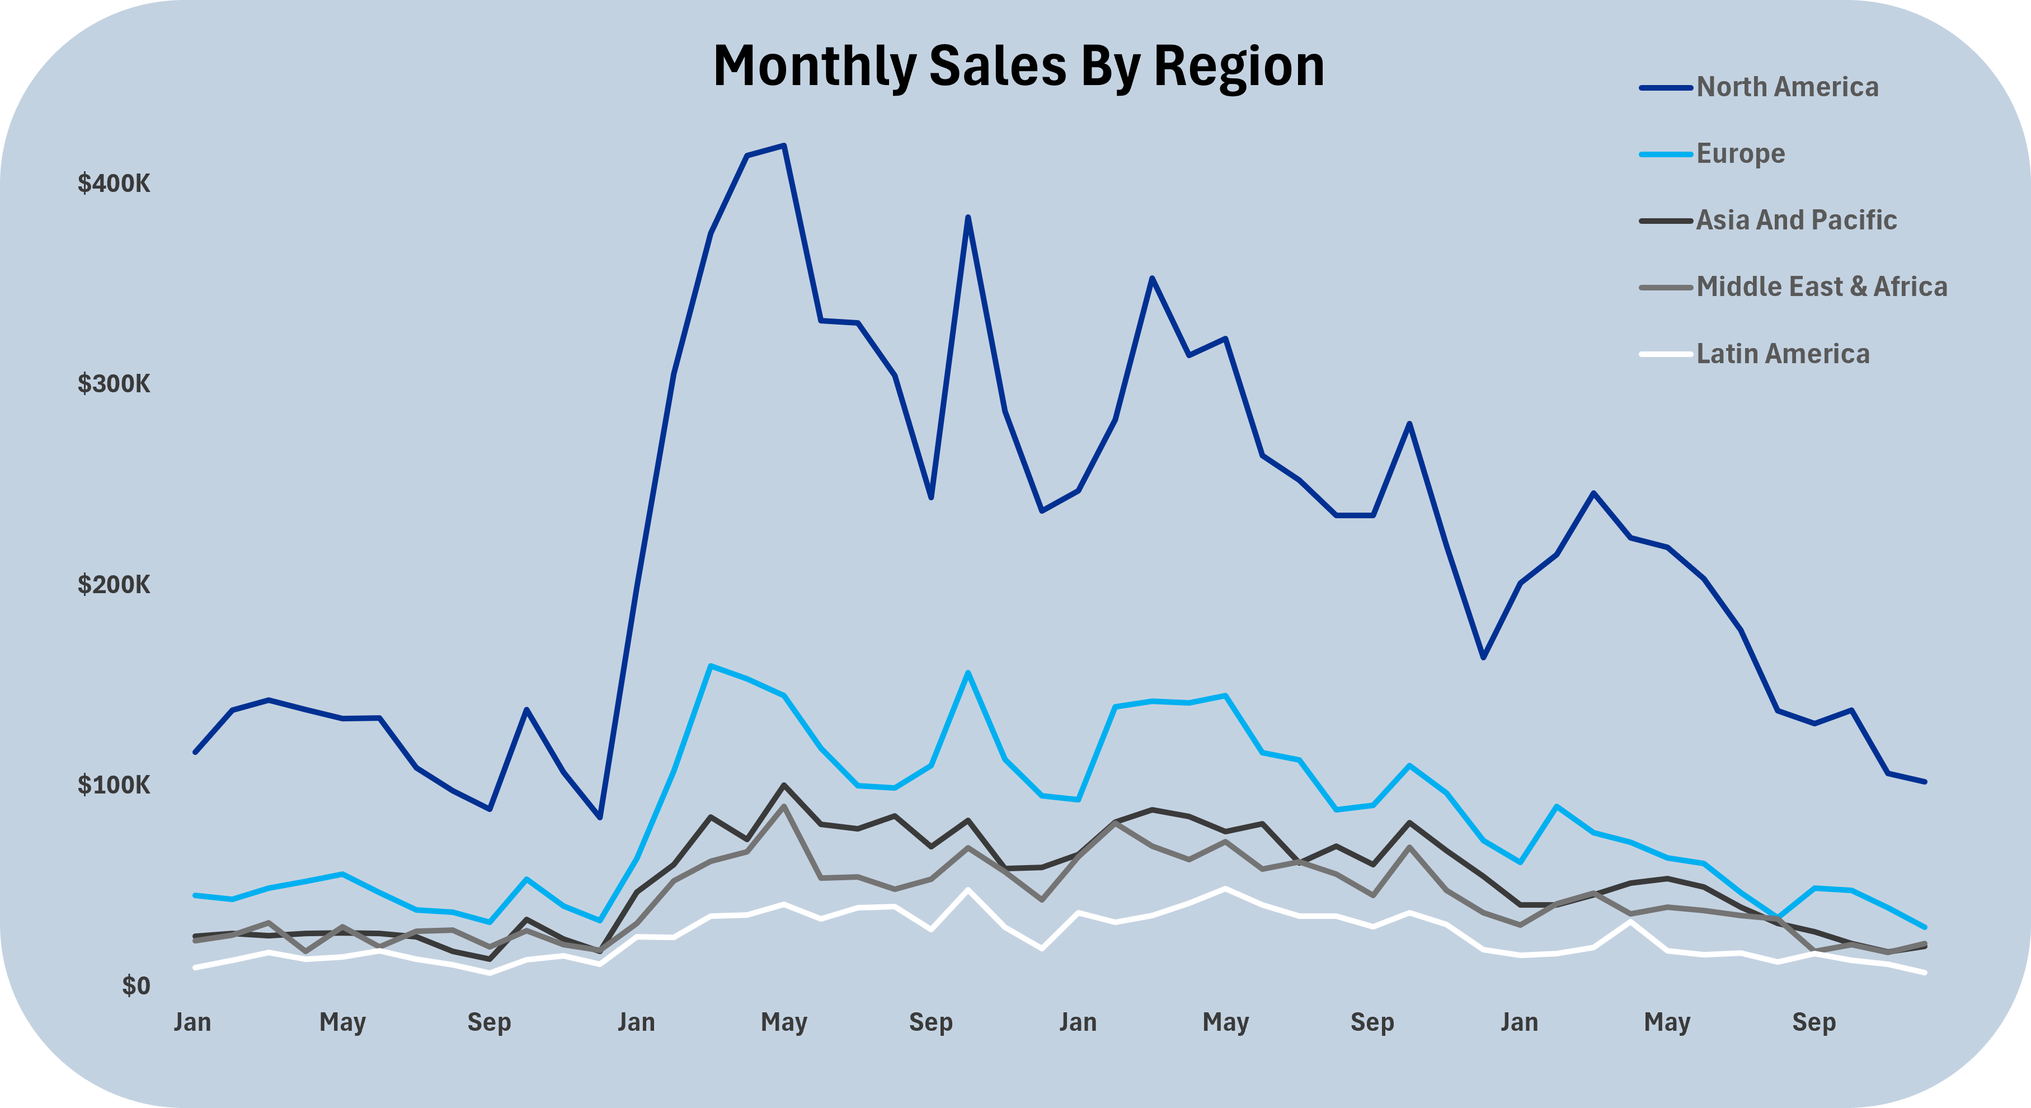
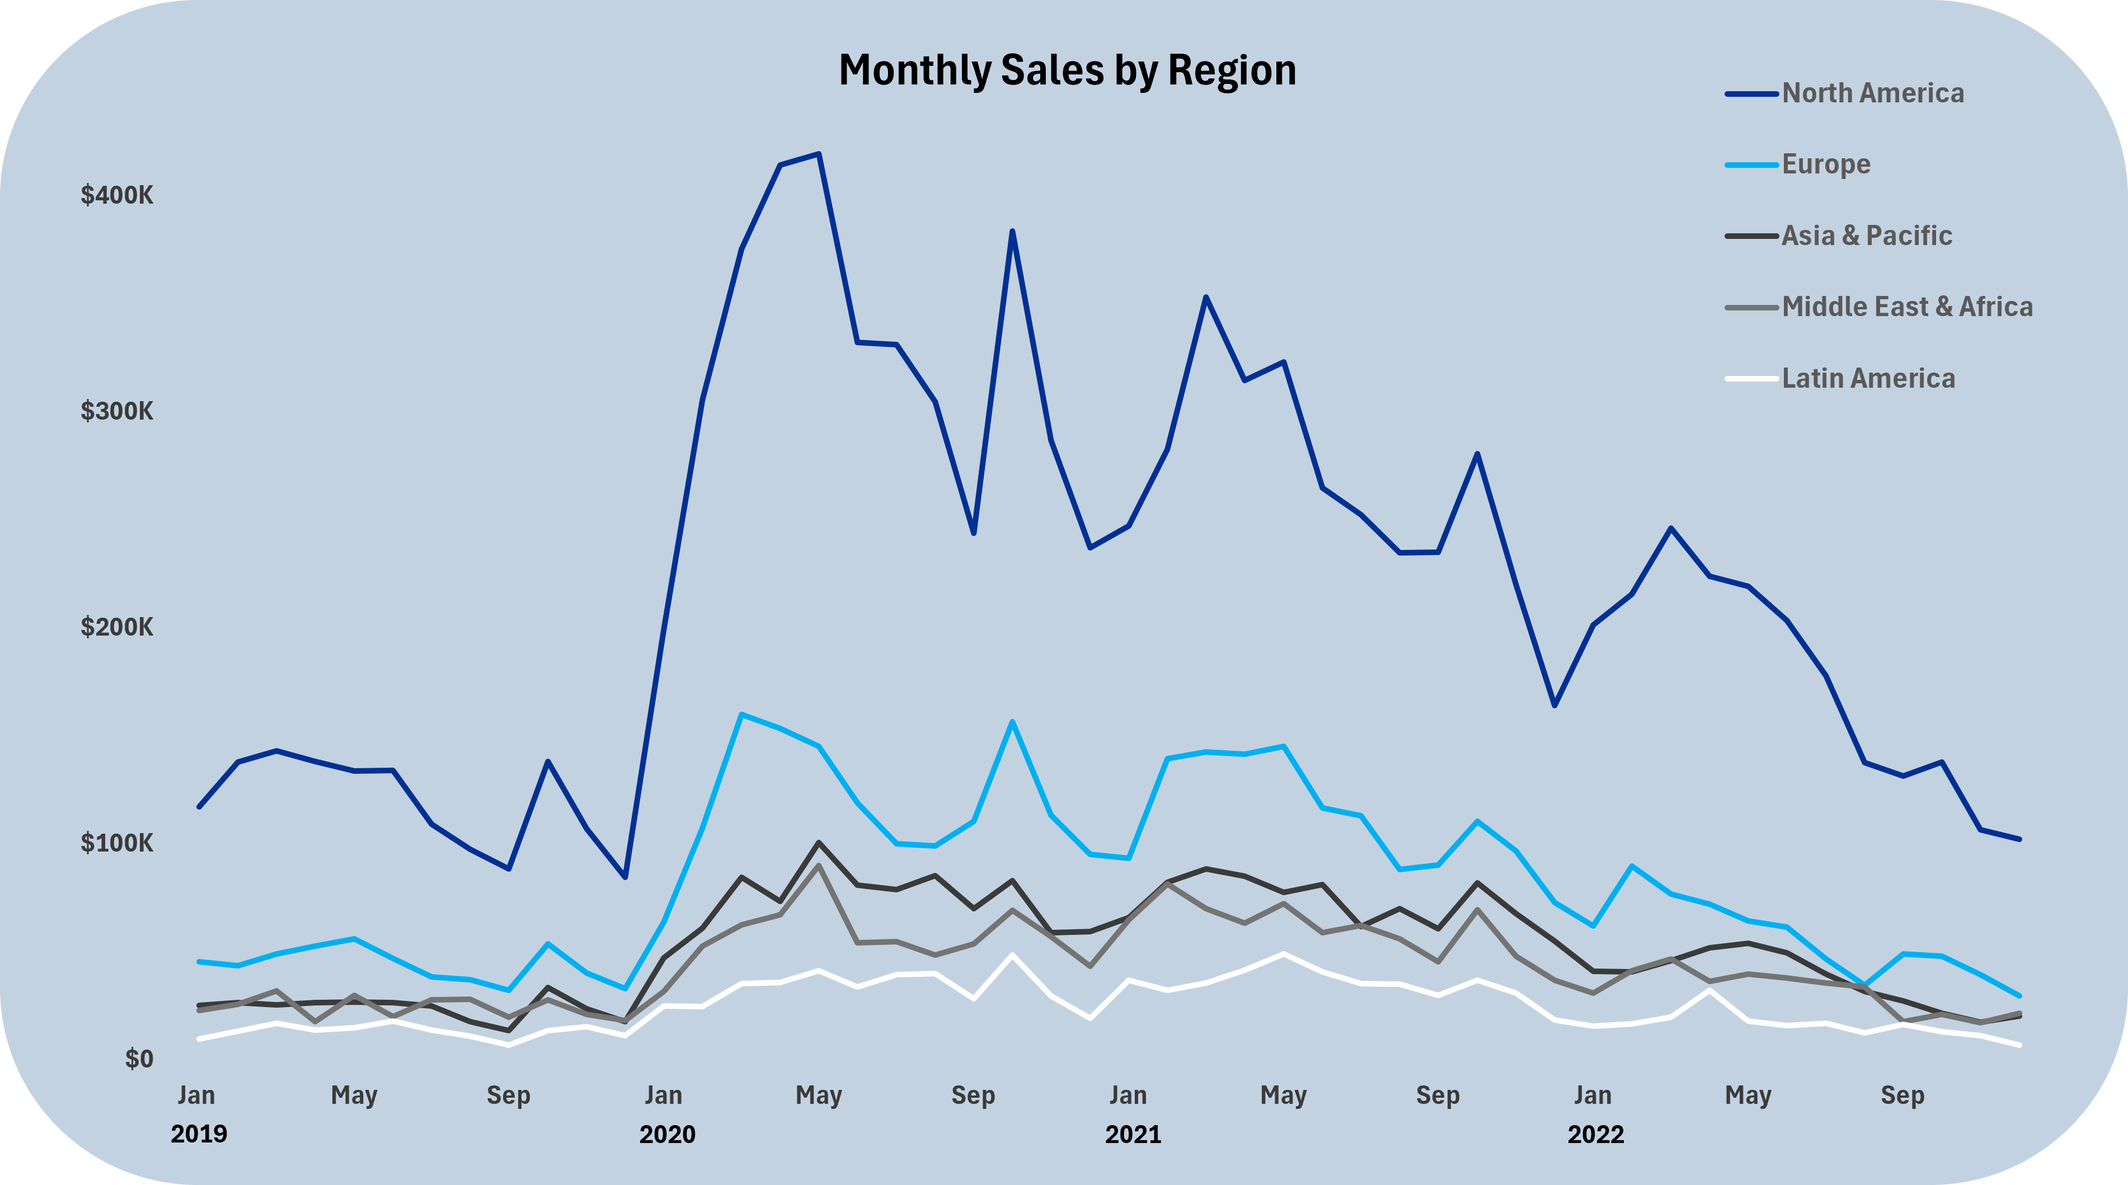
Improved README formatting

diff --git a/README.md b/README.md
@@ -22,7 +22,7 @@ Bookmarks:
 
 ## Background and Overview  
 
-Trenline is a global online retailer specializing in consumer electronics. Since commencing operations in 2019, the company has averaged over $5 million in annual net sales, partisipating in the \$650 billion E-commerce market.  
+Trenline is a global online retailer specializing in consumer electronics. Since commencing operations in 2019, the company has averaged over $5 million in annual net sales, participating in the \$650 billion E-commerce market.  
 
 Trenline’s primary marketing strategy involves **Direct Marketing**, promoting one of its eight consumer products. Additionally, the company offers a loyalty program aimed at fostering customer retention.  
 
@@ -40,50 +40,49 @@ Four tables (visualized above) were provided for this analysis:
 
 - **orders:** Contains unique order identifiers (**id**, primary key) and purchase details, including the customer identifier (**customer_id**), product purchased (**product_name**), purchase date (**purchase_ts**), and purchase value in USD (**currency_usd**).  
 
-- **customers:** Stores customer-related data linked to orders (**id**, foreign key for orders). It includes the marketing channel that drove the initial sale (**marketing_channel**), the customer's membership status (**loyalty_program**), and their country (**country_code**).  
+- **customers:** Stores customer-related data linked to orders (**id**, foreign key for orders). It includes the marketing channel that drove the initial sale (**marketing_channel**), the customers' membership status (**loyalty_program**), and their country (**country_code**).  
 
 - **order_status:** Tracks order returns, with **order_id** as the foreign key for orders. This table records key dates such as purchase (**purchase_ts**), shipping (**ship_ts**), delivery (**delivery_ts**), and refund (**refund_ts**). ***Note**: Only returned orders are included in this table.*  
 
 - **geo_lookup:** Categorizes countries (**country**, primary key) into regions: Asia-Pacific (**APAC**), Europe (**EURO**), Latin America (**LATAM**), the Middle East & Africa (**MEA**), and North America (**NA**).  
 
 ---
+
 ## Executive Summary  
 
-Sales have been declining since peaking in 2020 with Sales of \$7.2M, with 2021 YOY Sales dropping 9% (\$6.5M) and YOY decreasing a further 42% (\$3.8M) in 2022. The drops in sales are driven mainly by fewer sales through the Direct Marketing Channel, which has accounted for 83% of revenue historically. Seasonal sales trends suggest sales performance decreases during months of high consumer demand. Sales in November and December were 28% lower compared to the rest of the year. Decreasing YOY sales could indicate increased competition in the market, and cause worse Direct Marketing performance. Product offerings have been very static during the 4 years of opperation with 8 product types offered. 96% of sales are generated by 4 of these categories which include Macbooks, ThinkPads, Apple Headphones, and Gaming Monitors. Sales from the Member Loyalty Program are having little impact on CLV, with less than 1% of Loyalty customers making repeted purchases.
+Sales have been declining since peaking in 2020 with sales of \$7.2M, with 2021 YOY sales dropping 9% (\$6.5M) and decreasing a further 42% (\$3.8M) in 2022. The decline in sales is driven mainly by fewer sales through the Direct Marketing Channel, which has historically accounted for 83% of revenue. Seasonal sales trends suggest that sales performance decreases during months of high consumer demand. Sales in November and December were 28% lower compared to the rest of the year. Decreasing YOY sales could indicate increased competition in the market, leading to weaker Direct Marketing performance. Product offerings have remained static over four years of operation, with eight product types available. 96% of sales are generated by four of these categories, which include MacBooks, ThinkPads, Apple Headphones, and Gaming Monitors. Sales from the Member Loyalty Program have had little impact on CLV, with less than 1% of loyalty customers making repeat purchases.
+
 
 ---
 
 ## Marketing Analysis Deep Dive
 
 ### Revenue Trends  
-Revenue peaked in 2020 at $7.2M, a YOY increase of 167% after the first year of operations in 2019 The following years expierienced YOY decreases of 9% in 2021 (\$6.5M) and 42% in 2022 (\$3.8M). Electronics sales perfrom best consistantly Febuary through May and including October while underperforming in September, November, and December. The lack of sales at the end of the year is concernign considering the last 2 months of the year being high retail-demand months during Holidays.
+
+Revenue peaked in 2020 at \$7.2M, a YOY increase of 167% after the first year of operations in 2019. The following years experienced YOY decreases of 9% in 2021 (\$6.5M) and 42% in 2022 (\$3.8M). Electronics sales consistently perform best from February through May and in October while underperforming in September, November, and December. The lack of sales at the end of the year is concerning, given that the last two months are high retail-demand periods due to the holidays.
+
 
 ![Annual Sales](readme_visuals/Annual_Sales.png)
 
 ![Monthly Sales Averages](readme_visuals/Monthly_Sales_Averages.png)
 
 
-### Sales Channels
+### Sales Channels  
 
-The Direct Marketing channel remains the primary driver of sales, accounting for 77% of total sales in 2022. However, its share has been steadily declining both in absolute and relative terms compared to other channels. In 2020, Direct Marketing contributed 85% of total sales, but this figure has gradually decreased over time. The reason for this decline is unclear, though seasonal trends indicate weaker performance during high-demand months, particularly November and December. Sales in these months are even lower than in January, traditionally a low-demand period. This seasonal weakness may be contributing to a declining return on ad spend (ROAS), likely due to increased competition for advertising space
-
+The Direct Marketing channel remains the primary driver of sales, accounting for 77% of total sales in 2022. However, its share has been steadily declining both in absolute and relative terms compared to other channels. In 2020, Direct Marketing contributed 85% of total sales, but this figure has gradually decreased over time. The reason for this decline is unclear, though seasonal trends indicate weaker performance during high-demand months, particularly in November and December. Sales in these months are even lower than in January, a traditionally low-demand period. This seasonal weakness may be contributing to a declining return on ad spend (ROAS), likely due to increased competition for advertising space.
 
 ![Direct vs Other Marketing](readme_visuals/Direct_vs_Other_Marketing.PNG)
 
+The next-best performing marketing channel is E-Mail, which grew from 10% of total sales in 2020 to 15% in 2022. However, despite its increasing share, sales from this channel are still declining in absolute terms. While a growing customer base should, in theory, enhance the impact of email marketing, the overall drop in orders from this channel raises concerns about its effectiveness.
 
-The next-best performing marketing channel is E-Mail, which grew from 10% of total sales in 2020 to 15% in 2022. However, despite its increasing share, sales from this channel are still declining in absolute terms. While a growing customer base should, in theory, enhance the impact of E-Mail marketing, the overall drop in orders from this channel raises concerns about its effectiveness.
 
 ![Marketing Channel Contribution](readme_visuals/Marketing_Channel_Contribution.png)
 
-
-
-Sales from Affiliates and Social Media remain minimal, contributing only 5% of total sales in 2022. While these channels do not directly drive substantial revenue, they serve as valuable tools for brand exposure and promotional opportunities. Social Media could be leveraged to highlight Loyalty Membership Program (LMP) offers, encouraging sign-ups that would, in turn, support E-Mail marketing campaigns. Additionally, Affiliates could be incentivized with direct bonuses for LMP sign-ups, helping expand reach and engagement.
-
-
+Sales from Affiliates and Social Media remain minimal, contributing only 5% of total sales in 2022. While these channels do not directly drive substantial revenue, they serve as valuable tools for brand exposure and promotional opportunities. Social Media could be leveraged to highlight Loyalty Membership Program (LMP) offers, encouraging sign-ups that would, in turn, support E-Mail marketing campaigns. Additionally, Affiliates could be incentivized with direct bonuses for LMP sign-ups, helping to expand reach and engagement.
 
 ### Geography Analysis 
-Sales have been evenly distributed across regions, with North America (NA) being the largest market, accounting for over 50% of total sales. Europe follows with 20%, while Asia and the Pacific (APAC) contribute 12%, the Middle East and Africa (MEA) 10%, and Latin America (LATAM) 6%. Product sales have remained relatively consistent across regions, with minimal variation, except for ThinkPad and MacBook laptops, which sell slightly less in MEA compared to other products. More market data is required to assess product demand variations across regions.
 
+Sales have been evenly distributed across regions, with North America (NA) being the largest market, accounting for over 50% of total sales. Europe follows with 20%, while Asia and the Pacific (APAC) contribute 12%, the Middle East and Africa (MEA) 10%, and Latin America (LATAM) 6%. Product sales have remained relatively consistent across regions, with minimal variation, except for ThinkPad and MacBook laptops, which sell slightly less in MEA compared to other regions. More market data is required to assess product demand variations across regions.
 
 ![Monthly Revenue by Region](readme_visuals/Monthly_Revenue_by_Region.png)
 
@@ -92,7 +91,8 @@ Marketing channel performance also shows little variation across regions, with o
 ![Marketing Composition by Region](readme_visuals/Marketing_Composition_by_Region.png)
 
 ### Customer Memberships  
-The LMP has not demonstrated a significant impact on CLV. LMP customers CLV is 24% lower than non-members. Less than 1% of LMP customers make repeat purchases compared to 9% of non-members. This demonstrates a lack of insentive from the LMP to give valueable offers to customers. While average CLV is trending upwards YOY, the lack of repeat purchases is very small even when comparing to non-members. Less than 50 members made repeat purchases in over four years compared to over a thousand non-members. The missing repeated purchases of members indicate a marketing issue. The value generated by the membership program should be directed at presenting specialized offers to members which increase repeated purchases, and increase CLV. 
+
+The LMP has not demonstrated a significant impact on CLV. LMP customers' CLV is 24% lower than that of non-members. Less than 1% of LMP customers make repeat purchases, compared to 9% of non-members. This suggests that the LMP lacks sufficient incentives to provide valuable offers to customers. While average CLV is trending upward YOY, the number of repeat purchases remains very low, even compared to non-members. Fewer than 50 members have made repeat purchases in over four years, compared to over a thousand non-members. The lack of repeat purchases among members indicates a marketing issue. The value generated by the membership program should be focused on presenting specialized offers that encourage repeat purchases and increase CLV.
 
 ![Average CLV](readme_visuals/Average_CLV.png)
 
@@ -102,7 +102,7 @@ Six products were initially launched in 2019: Gaming Monitors, Apple AirPods, Th
 
 ![Product Sales Table](readme_visuals/Product_Sales_Table.PNG)
 
-Four products account for over 96% of total revenue. The top sales drivers are Gaming Monitors and Apple AirPods, contributing 63% of revenue. MacBook and ThinkPad laptops follow, generating 33% of revenue despite comprising only 7% of total order volume. The Samsung Charging Cable, while performing well in order count at 21%, contributes just 2% of total revenue.
+Four products account for over 96% of total revenue. The top sales drivers are Gaming Monitors and Apple AirPods, contributing 63% of revenue. MacBook and ThinkPad laptops follow, generating 33% of revenue despite comprising only 7% of total order volume. The Samsung Charging Cable, while performing well in order count at 21%, contributes just 2% of total revenue.  
 
 Given the varying order values of these products, marketing strategies should be adapted accordingly. If the relative cost of Direct Marketing increases, ad placements should prioritize higher-value products with proven conversion success, such as laptops and monitors. Lower-value products could be positioned as promotional deals within the LMP to enhance customer retention and cross-selling opportunities.
 
@@ -111,56 +111,47 @@ Given the varying order values of these products, marketing strategies should be
 ---  
 ## Recommendations  
 
-1. **Optimize Direct Marketing for High-Value Products**
+1. **Optimize Direct Marketing for High-Value Products**  
+   - Mitigate the impact of declining Direct Marketing performance by focusing on the top four high-order-value products: Gaming Monitors, Apple Headphones, MacBooks, and ThinkPad laptops.  
 
-   - Mitigate the impact of declining Direct Marketing performance by focusing efforts on the top four high-order-value products: Gaming Monitors, Apple Headphones, MacBooks, and ThinkPad laptops.
-
-2. **Enhance the Loyalty Memberhsip Program (LMP)**  
-   - Increase CLV by restructuring LMP to incentivize repeat purchases and customer engagement:   
+2. **Enhance the Loyalty Membership Program (LMP)**  
+   - Increase CLV by restructuring LMP to incentivize repeat purchases and customer engagement:  
      - Implement tiered rewards to encourage higher spending and repeat purchases  
-     - Personalize offers based on purchase history to improve engagement and retention
-     - Introduce referral incentives, such as coupon discounts, to encourage existing customers to refer new LMP sign-ups
+     - Personalize offers based on purchase history to improve engagement and retention  
+     - Introduce referral incentives, such as coupon discounts, to encourage existing customers to refer new LMP sign-ups  
 
 3. **Leverage Membership for E-Mail Marketing**  
-   - Increase CLV by Utilizing LMP to target members with personalized email campaigns focusing on:  
-     - Similar products to previous purchases
-     - Complementary products(ie Apple headphones for previous iPhone customers)
-     - Exclusive discounts or product bundles to drive additional purchases and increase retention
-     - New product launches to gather feedback on potential future offerings
-   - Strengthen engagement by incorporating dynamic content, such as limited-time offers and interactive promotions, to boost conversion rates.
+   - Increase CLV by utilizing LMP to target members with personalized email campaigns focused on:  
+     - Similar products to previous purchases  
+     - Complementary products (e.g., Apple Headphones for previous iPhone customers)  
+     - Exclusive discounts or product bundles to drive additional purchases and increase retention  
+     - New product launches to gather feedback on potential future offerings  
+   - Strengthen engagement by incorporating dynamic content, such as limited-time offers and interactive promotions, to boost conversion rates.  
 
-
-4. **Address Seasonal Sales Weakness**
-   - Counteract sales declines in November and December by launching targeted holiday promotions focused on high-performing products.
-
-   - Implement strategic discounting and bundling for seasonal campaigns to drive conversions during high-demand periods.
+4. **Address Seasonal Sales Weakness**  
+   - Counteract sales declines in November and December by launching targeted holiday promotions focused on high-performing products.  
+   - Implement strategic discounting and bundling for seasonal campaigns to drive conversions during high-demand periods.  
 
 5. **Expand Product Offerings**  
-   - Reduce potentialnegative impact from static offerings by researching mid-to-high priced, high-demand electronics products that may perform well such as TVs, Android smartphones, and Apple Watches.
-   - Enhance LMP value by providing members with exclusive early access to new product launches and limited-edition items.
+   - Reduce the potential negative impact of static offerings by researching mid-to-high-priced, high-demand electronics, such as TVs, Android smartphones, and Apple Watches.  
+   - Enhance LMP value by providing members with exclusive early access to new product launches and limited-edition items.  
 
-6. **Diversify and Strengthen Low-Performing Marketing Channels**
+6. **Diversify and Strengthen Low-Performing Marketing Channels**  
+   - Expand Social Media and Affiliate engagement strategies to increase brand visibility and improve conversions:  
+     - Launch targeted ad campaigns showcasing best-selling products and LMP benefits  
+     - Offer exclusive Social Media promotions to incentivize purchases and increase engagement  
+     - Provide Affiliates with additional incentives for driving LMP sign-ups alongside product sales  
 
-   - Expand Social Media and Affiliate engagement strategies to increase brand visibility and improve conversions:
 
-      - Launch targeted ad campaigns showcasing best-selling products and LMP benefits
-      - Offer exclusive social media promotions to incentivize purchases and increase engagement
-      - Provide affiliates with additional incentives for driving LMP sign-ups alongside product sales.
+## Data Caveats & Limitations  
 
-## Data Caveats & Limitations
+1. **Marketing Budget Data Is Not Available**  
+   - The dataset does not include marketing spend across channels (Direct, Email, Affiliate, and Social Media Marketing).  
+   - As a result, ROAS (Return on Ad Spend) and cost efficiency by channel cannot be directly calculated. Instead, marketing effectiveness was assessed using sales contribution and revenue trends.  
 
-1. **Marketing Budget Data is Not Available**
+2. **Customer Engagement Data Is Limited**  
+   - The analysis focuses on purchase data but does not include site visits, ad impressions, or email engagement metrics, which could provide deeper insights into marketing performance.  
 
-   - The dataset does not include marketing spend across channels (Direct, Email, Affiliate, and Social Media Marketing).
-
-   - As a result, ROAS (Return on Ad Spend) and cost efficiency by channel cannot be directly calculated. Instead, marketing effectiveness was evaluated using sales contribution and revenue trends.
-
-2. **Customer Engagement Data is Limited**
-
-   - The analysis focuses on purchase data but does not include site visits, ad impressions, or email engagement metrics, which could provide deeper insights into marketing performance.
-
-3. **Competitive & Market-Wide Factors Not Considered** 
-
-   - External influences such as competitor pricing, industry trends, and macroeconomic conditions (Corona Virus) are not included or considered in this dataset.
-
-   - This means that while declining sales and seasonal trends are observed, their underlying causes may extend beyond Trenline’s internal strategies.
+3. **Competitive & Market-Wide Factors Are Not Considered**  
+   - External influences such as competitor pricing, industry trends, and macroeconomic conditions (e.g., the 2020 pandemic) are not accounted for in this dataset.  
+   - While declining sales and seasonal trends are observed, their root causes may extend beyond Trenline’s internal strategies.  
